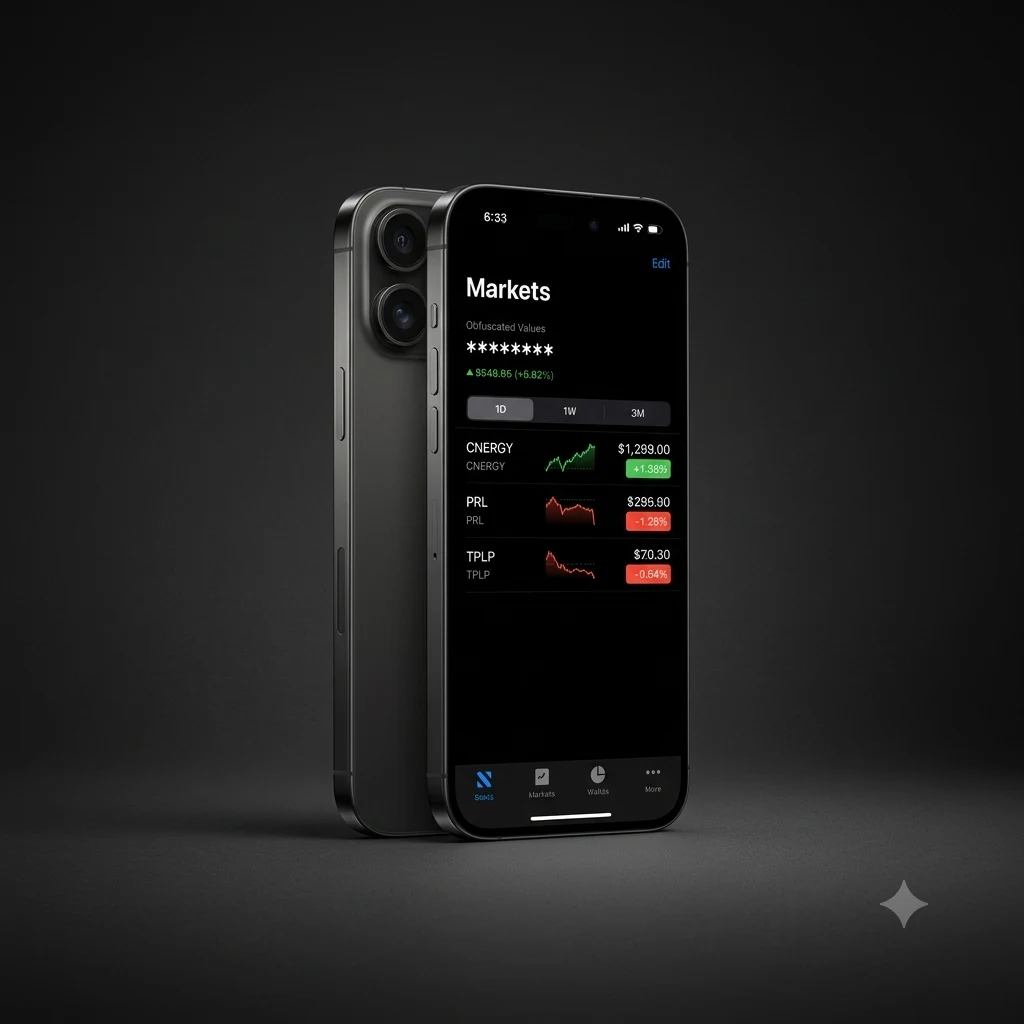
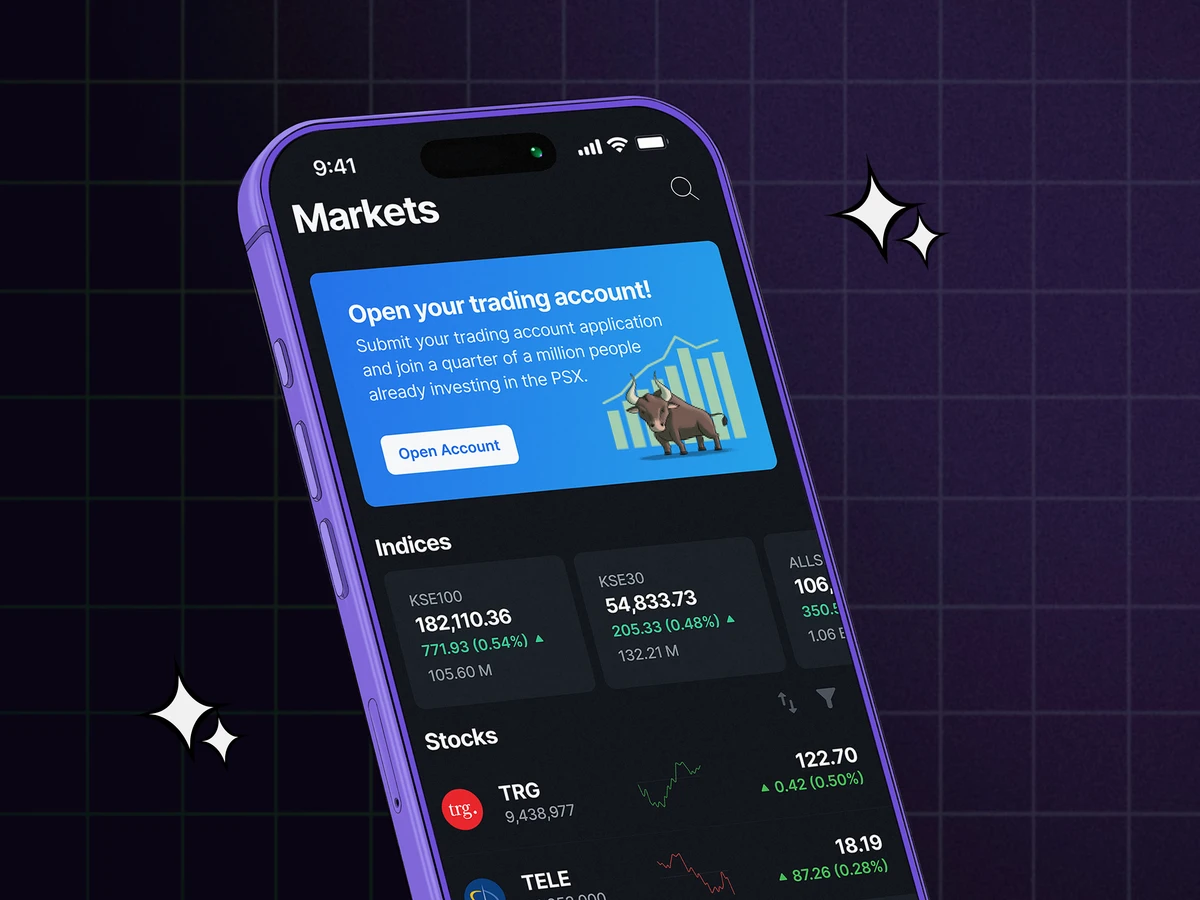
Homepage/About polish: heading sizes, copy, Academy squeeze, new asset
TwoUpCards: match card heading size to the asset-class cards, shrink
the subtitle text slightly, retitle/recopy the third card (Instant
Deposits, Stress-Free Withdrawals), and swap in a new background image
for "Zero Lag. Total Focus".

Academy section: new subtext, tightened section/carousel spacing and a
smaller video player so the section fits within a 1366x768 viewport
without scrolling.

Footer: fixes the "All investing involves risk." line duplicating the
legal paragraph directly below it, now reads "Important Disclosures".

About page: rewrites the regulatory trust paragraph so it no longer
near-duplicates the Footer's legal text, and adds a second paragraph
in a confident, reframe-then-rhythm tone.

diff --git a/components/AcademyVideoCarousel.tsx b/components/AcademyVideoCarousel.tsx
@@ -107,14 +107,15 @@ export default function AcademyVideoCarousel() {
   };
 
   return (
-    <div className="mx-auto mt-6 w-full max-w-[1800px] overflow-hidden px-2 pb-4">
+    <div className="mx-auto mt-3 w-full max-w-[1800px] overflow-hidden px-2 pb-1">
       {/* Neighbors are absolutely positioned against this centered box (not
           flex siblings with a gap) so they can overlap behind the focused
           card and peek out at its edges, instead of sitting apart from it
-          across a strip of plain purple background. max-w-2xl (not the
-          earlier 4xl) so the whole section, heading, subtext, button,
+          across a strip of plain purple background. max-w-xl (tightened
+          further from an earlier max-w-2xl, itself already trimmed down
+          from a 4xl) so the whole section, heading, subtext, button,
           player, link, dots, fits inside one screen without scrolling. */}
-      <div className="relative mx-auto max-w-2xl" style={{ perspective: "1600px" }}>
+      <div className="relative mx-auto max-w-lg" style={{ perspective: "1600px" }}>
         {videoCourses.length > 1 && (
           <>
             <NeighborSlide course={prevCourse} side="left" onClick={() => go(-1)} />
@@ -148,7 +149,7 @@ export default function AcademyVideoCarousel() {
       {/* Its own row below the card, not tucked into the card's text block , 
           a plain underlined link there read as a footnote, not a second CTA
           worth noticing. */}
-      <div className="mt-3 flex justify-center">
+      <div className="mt-2 flex justify-center">
         <Link
           href={`/academy-flow/${course.slug}`}
           className="inline-flex items-center gap-2 rounded-full border border-white/70 bg-white/10 px-5 py-2.5 text-sm font-semibold text-onPrimary backdrop-blur-md transition-colors hover:bg-white/20 focus-visible:outline-none focus-visible:ring-2 focus-visible:ring-white focus-visible:ring-offset-2 focus-visible:ring-offset-primary"
@@ -169,7 +170,7 @@ export default function AcademyVideoCarousel() {
         </Link>
       </div>
 
-      <div className="mt-3 flex items-center justify-center gap-2">
+      <div className="mt-2 flex items-center justify-center gap-2">
         {videoCourses.map((c, i) => (
           <button
             key={c.slug}

diff --git a/components/TwoUpCards.tsx b/components/TwoUpCards.tsx
@@ -23,9 +23,9 @@ const cards = [
     strongScrim: true,
   },
   {
-    title: "Instant Top-Ups, Stress-Free Withdrawals",
+    title: "Instant Deposits, Stress-Free Withdrawals",
     description:
-      "Move funds in and out of Finqalab with minimal friction and full control. Seize the moment when opportunities peak, or cash back out before the tide turns.",
+      "Move funds in and out of Finqalab without friction and full control. Seize the moment when opportunities peak, or cash back out before the tide turns.",
     image: "/images/instant-deposits-bg.webp",
     objectPosition: "50% 50%",
   },
@@ -34,7 +34,7 @@ const cards = [
     description:
       "Accurate prices, charts, and portfolio data, presented exactly as they should be. A reliable experience that keeps you focused on your investments, not on the app itself.",
     image: "/images/reliable-app-bg.webp",
-    objectPosition: "50% 50%",
+    objectPosition: "40% 35%",
   },
 ];
 
@@ -77,7 +77,7 @@ export default function TwoUpCards() {
               />
 
               <div className="absolute inset-x-0 bottom-0 z-10 flex flex-col items-end px-6 pb-6 text-right sm:px-10 sm:pb-8">
-                <h3 className="text-[26px] font-semibold leading-tight text-white sm:text-[32px]">
+                <h3 className="text-xl font-semibold leading-tight text-white">
                   {card.title}
                 </h3>
                 {/* Fixed min-height, not line-clamp: the two cards' copy
@@ -86,7 +86,7 @@ export default function TwoUpCards() {
                     description let its card's heading sit lower than the
                     other's, reserving the taller card's height for both
                     keeps the two cards' titles level. */}
-                <p className="mt-2 min-h-[4rem] max-w-[420px] text-[0.95rem] text-white">
+                <p className="mt-2 min-h-[4rem] max-w-[420px] text-[0.85rem] text-white">
                   {card.description}
                 </p>
               </div>

diff --git a/app/about/page.tsx b/app/about/page.tsx
@@ -330,15 +330,20 @@ export default function AboutPage() {
 
                 <div className="lg:col-span-7">
                   <Reveal delay={100}>
-                    <p className="max-w-[62ch] text-[15px] leading-relaxed text-text-onDark-muted">
-                      Finqalab is a subsidiary of Next Capital Limited, a licensed brokerage firm and
-                      member of the Pakistan Stock Exchange, operating out of Karachi, Pakistan. Next
-                      Capital Limited is regulated by the Securities and Exchange Commission of
-                      Pakistan (SECP), and is itself a publicly listed entity on the Pakistan Stock
-                      Exchange, trading under the ticker NEXT. The same market discipline and
-                      oversight our team has operated under for three decades now stands behind
-                      every account Finqalab opens.
-                    </p>
+                    <div className="max-w-[62ch] space-y-4 text-[15px] leading-relaxed text-text-onDark-muted">
+                      <p>
+                        Next Capital Limited isn&apos;t new to Pakistan&apos;s markets, it&apos;s
+                        been a PSX member and SECP-regulated brokerage for decades, and trades
+                        publicly on the exchange itself under the ticker NEXT. Finqalab operates as
+                        its subsidiary, built in Karachi, carrying that same standing into every
+                        account we open.
+                      </p>
+                      <p>
+                        Trust isn&apos;t something you can claim overnight. It&apos;s built trade
+                        by trade, cycle by cycle, decade by decade. That&apos;s the foundation
+                        Finqalab stands on, not a promise, a record.
+                      </p>
+                    </div>
                   </Reveal>
                 </div>
               </div>

diff --git a/components/AppPreviewBlock.tsx b/components/AppPreviewBlock.tsx
@@ -6,19 +6,19 @@ export default function AppPreviewBlock() {
   return (
     <section
       id="academy"
-      className="bg-primary px-6 pt-10 pb-6 text-center text-onPrimary"
+      className="bg-primary px-6 pt-6 pb-3 text-center text-onPrimary"
     >
       <Reveal>
         <h2 className="mx-auto max-w-xl text-balance text-3xl font-semibold leading-tight sm:text-4xl">
           Become a better investor by learning from Finqalab
         </h2>
-        <p className="mx-auto mt-3 max-w-sm text-balance text-[0.95rem] font-medium text-onPrimary/80">
-          Bite-sized video lessons from Finqalab Academy, ready to watch right here.
+        <p className="mx-auto mt-2 max-w-sm text-balance text-[0.95rem] font-medium text-onPrimary/80">
+          Comprehensive video courses from Finqalab Academy, ready to watch right here.
         </p>
       </Reveal>
 
       <Reveal delay={100}>
-        <div className="mt-5">
+        <div className="mt-4">
           <PillButton href="/academy" variant="solidWhite">
             Watch Free Courses
           </PillButton>

diff --git a/components/Footer.tsx b/components/Footer.tsx
@@ -110,7 +110,7 @@ export default function Footer() {
 
         <div className="space-y-4 border-t border-border-onDark pt-10 text-xs leading-relaxed">
           <p className="font-semibold text-text-onDark-muted">
-            All investing involves risk.
+            Important Disclosures
           </p>
           {legalParagraphs.map((paragraph) => (
             <p key={paragraph}>{paragraph}</p>
